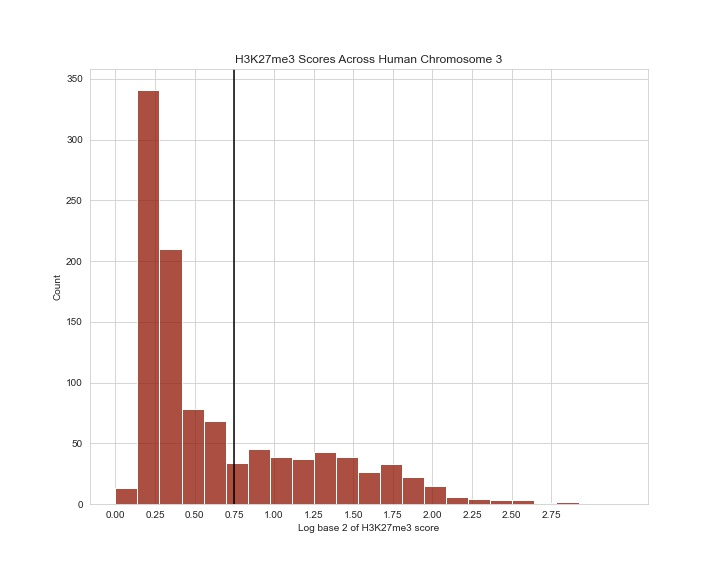
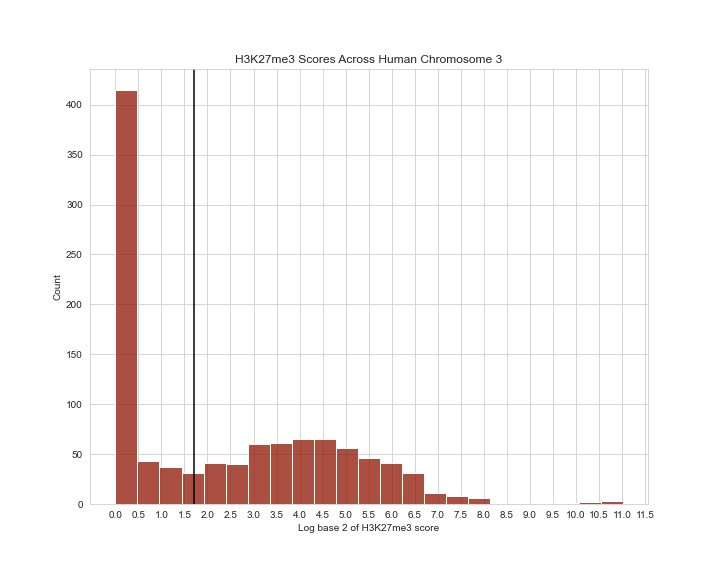
Responded to feedback and updated code/graphs

diff --git a/06-week-hw/README_feedback.md b/06-week-hw/README_feedback.md
@@ -1,3 +1,7 @@
 This is really good! One small note: for your expression histogram, it looks like you're plotting H3K27me3 presence rather than gene expression, and you're choosing your cutoff based on that. You should be plotting a histogram of gene expression (i.e. column 4 in your data frame), not H3K27me3 presence, and choosing your cutoff based on that (-0.25)
 
 3.75/4
+
+
+
+From Brendon: I fixed the issue, so now the histogram shows gene expression. I also changed the expression cutoff and used that in the subsequent code blocks, and this yields results for the violin plot that make more sense than what I had previously (ie. majority of B genes are off, majority of A genes are on).
